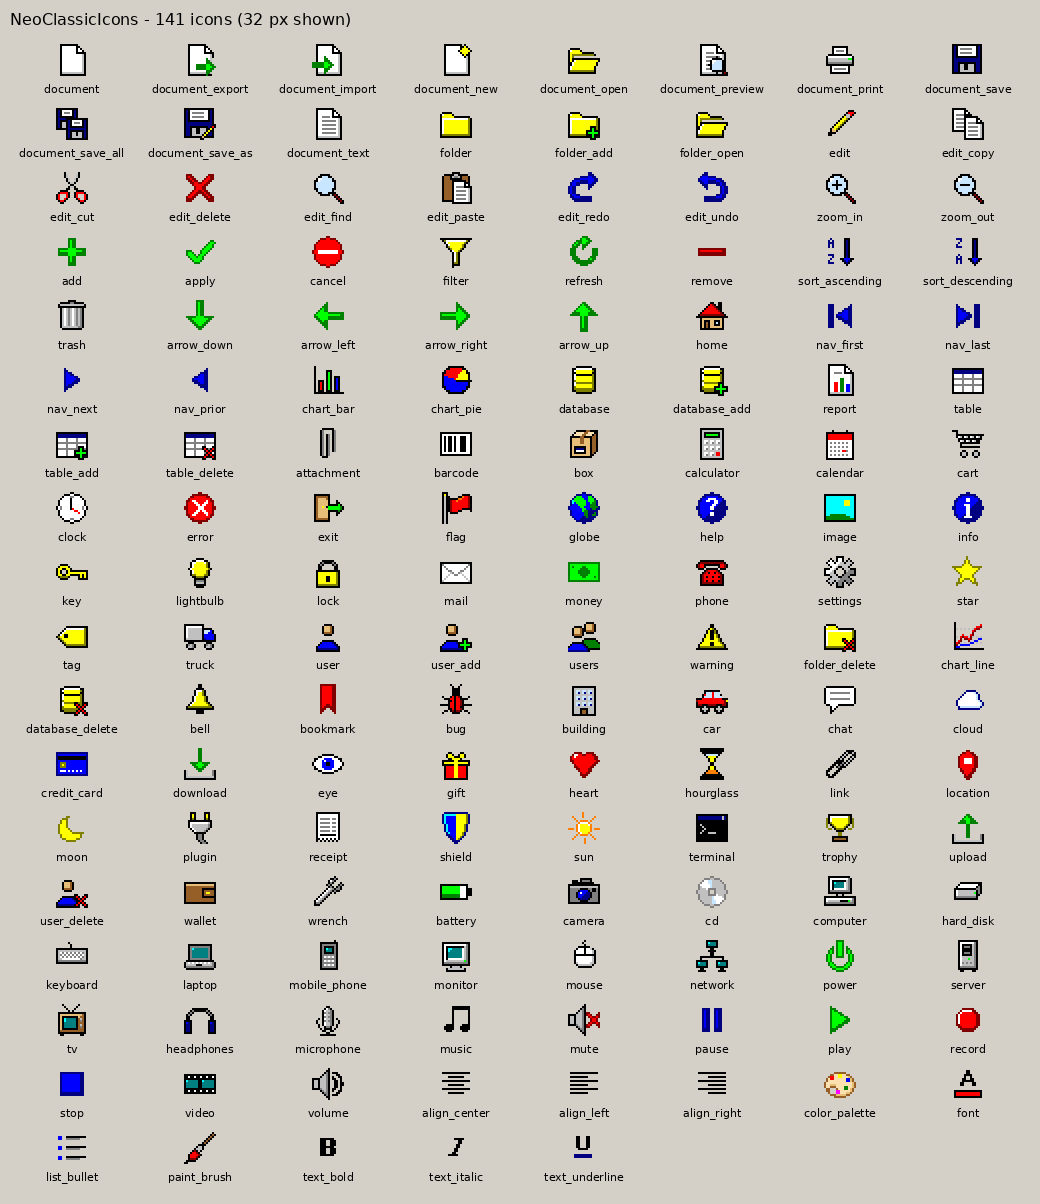
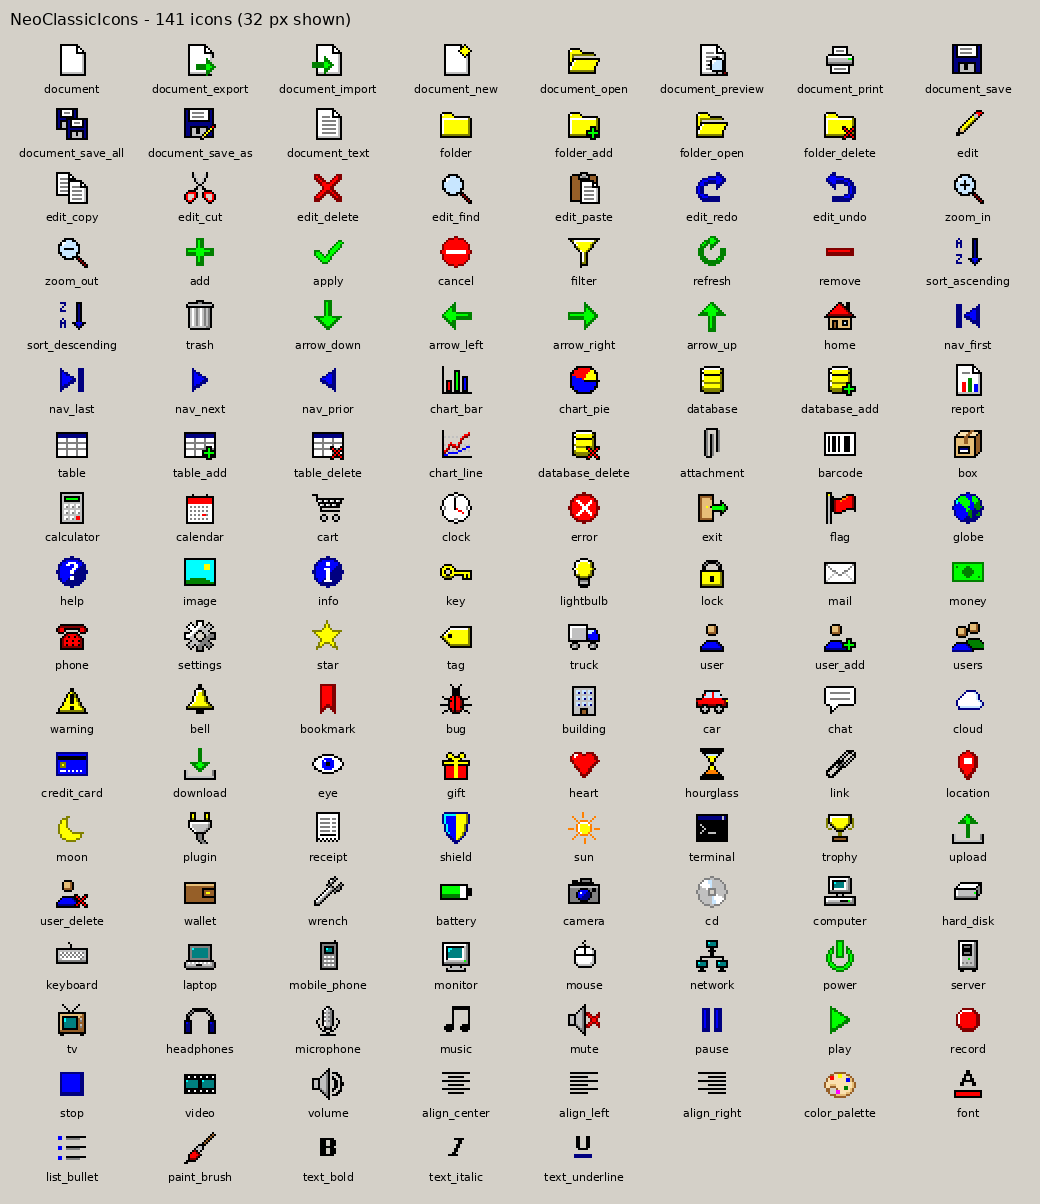
Fixing little mistake

diff --git a/tools/build.py b/tools/build.py
@@ -235,10 +235,18 @@ def icon_set_hash(icons):
     return h.hexdigest()[:16]
 
 
+def by_category(icons):
+    """(index, icon) pairs grouped by category, index order inside each group.
+    Index order itself interleaves categories (new icons are appended), so
+    human-facing listings use this instead."""
+    rank = lambda c: CATEGORY_ORDER.index(c) if c in CATEGORY_ORDER else len(CATEGORY_ORDER)
+    return sorted(enumerate(icons), key=lambda p: (rank(p[1].category), p[0]))
+
+
 def write_pascal(path, icons):
     w = max(len(i.const) for i in icons)
     consts, cat = [], None
-    for idx, i in enumerate(icons):
+    for idx, i in by_category(icons):
         if i.category != cat:
             cat = i.category
             consts.append("  // %s" % cat)
@@ -268,7 +276,7 @@ def write_preview(path, icons, cols=8):
     d = ImageDraw.Draw(img)
     d.text((10, 10), "NeoClassicIcons - %d icons (32 px shown)" % len(icons), fill=(0, 0, 0), font=_font(16))
     f = _font(11)
-    for n, i in enumerate(icons):
+    for n, (_, i) in enumerate(by_category(icons)):
         x, y = 8 + (n % cols) * cell_w, head + (n // cols) * cell_h
         im = i.image(2)
         img.paste(im, (x + (cell_w - 32) // 2, y + 4), im)
@@ -297,7 +305,7 @@ def write_icons_md(path, icons):
     lines = ["# Icon list", "",
              "Generated by `tools/build.py`. Constants live in `package/neoclassiciconnames.pas`.", ""]
     cat = None
-    for idx, i in enumerate(icons):
+    for idx, i in by_category(icons):
         if i.category != cat:
             cat = i.category
             lines += ["", "## " + cat, "", "| | Name | Constant | Index | Description |", "|---|---|---|---|---|"]

diff --git a/docs/ICONS.md b/docs/ICONS.md
@@ -21,6 +21,7 @@ Generated by `tools/build.py`. Constants live in `package/neoclassiciconnames.pa
 | ![](../icons/16/folder.png) | `folder` | `nciFolder` | 11 | Folder |
 | ![](../icons/16/folder_add.png) | `folder_add` | `nciFolderAdd` | 12 | New folder |
 | ![](../icons/16/folder_open.png) | `folder_open` | `nciFolderOpen` | 13 | Open folder |
+| ![](../icons/16/folder_delete.png) | `folder_delete` | `nciFolderDelete` | 78 | Delete folder |
 
 ## Edit
 
@@ -77,6 +78,8 @@ Generated by `tools/build.py`. Constants live in `package/neoclassiciconnames.pa
 | ![](../icons/16/table.png) | `table` | `nciTable` | 47 | Table |
 | ![](../icons/16/table_add.png) | `table_add` | `nciTableAdd` | 48 | Add record |
 | ![](../icons/16/table_delete.png) | `table_delete` | `nciTableDelete` | 49 | Delete record |
+| ![](../icons/16/chart_line.png) | `chart_line` | `nciChartLine` | 79 | Line chart |
+| ![](../icons/16/database_delete.png) | `database_delete` | `nciDatabaseDelete` | 80 | Delete database |
 
 ## Application
 
@@ -110,24 +113,6 @@ Generated by `tools/build.py`. Constants live in `package/neoclassiciconnames.pa
 | ![](../icons/16/user_add.png) | `user_add` | `nciUserAdd` | 75 | Add user |
 | ![](../icons/16/users.png) | `users` | `nciUsers` | 76 | Users |
 | ![](../icons/16/warning.png) | `warning` | `nciWarning` | 77 | Warning |
-
-## File
-
-| | Name | Constant | Index | Description |
-|---|---|---|---|---|
-| ![](../icons/16/folder_delete.png) | `folder_delete` | `nciFolderDelete` | 78 | Delete folder |
-
-## Data
-
-| | Name | Constant | Index | Description |
-|---|---|---|---|---|
-| ![](../icons/16/chart_line.png) | `chart_line` | `nciChartLine` | 79 | Line chart |
-| ![](../icons/16/database_delete.png) | `database_delete` | `nciDatabaseDelete` | 80 | Delete database |
-
-## Application
-
-| | Name | Constant | Index | Description |
-|---|---|---|---|---|
 | ![](../icons/16/bell.png) | `bell` | `nciBell` | 81 | Notification |
 | ![](../icons/16/bookmark.png) | `bookmark` | `nciBookmark` | 82 | Bookmark |
 | ![](../icons/16/bug.png) | `bug` | `nciBug` | 83 | Bug / Debug |
